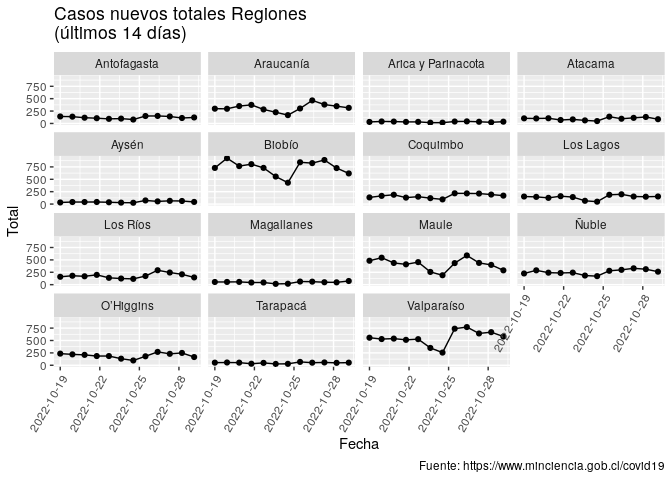
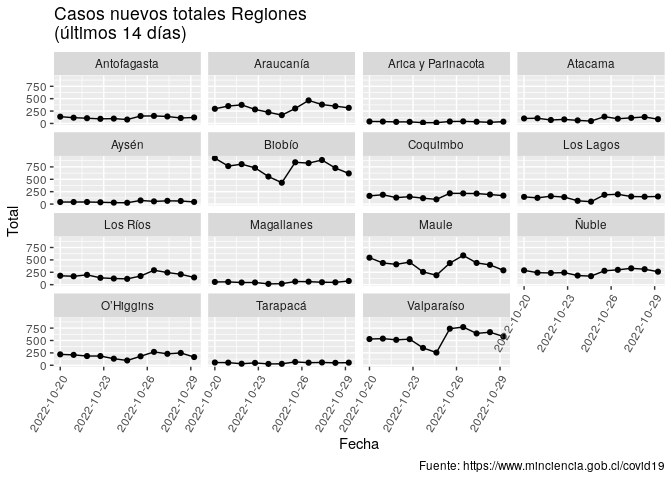
Re-build Rmarkdown files

diff --git a/README.md b/README.md
@@ -3,7 +3,7 @@
 
 Ejemplo de uso de total\_casos de COVID recopilados por el Ministerio de
 Ciencia de Chile <https://www.minciencia.gob.cl/covid19>. Última
-actualización: 2022-11-01
+actualización: 2022-11-02
 
 ## Visualización desde el comienzo de la pandemia
 
